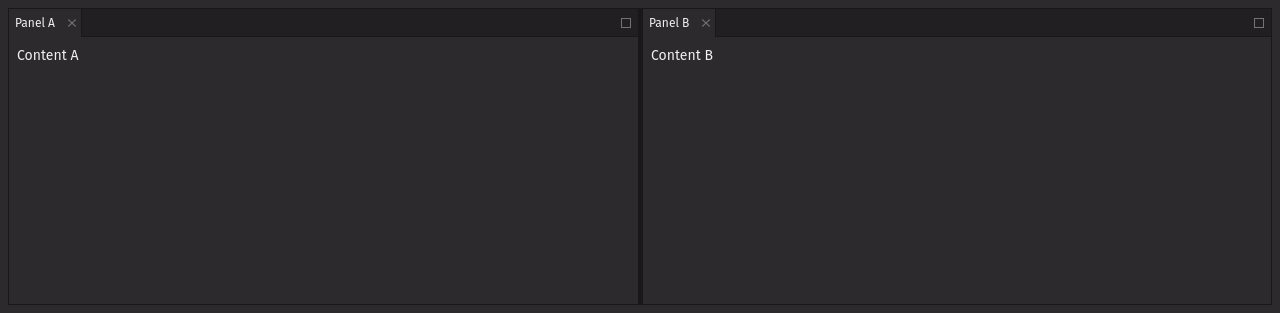
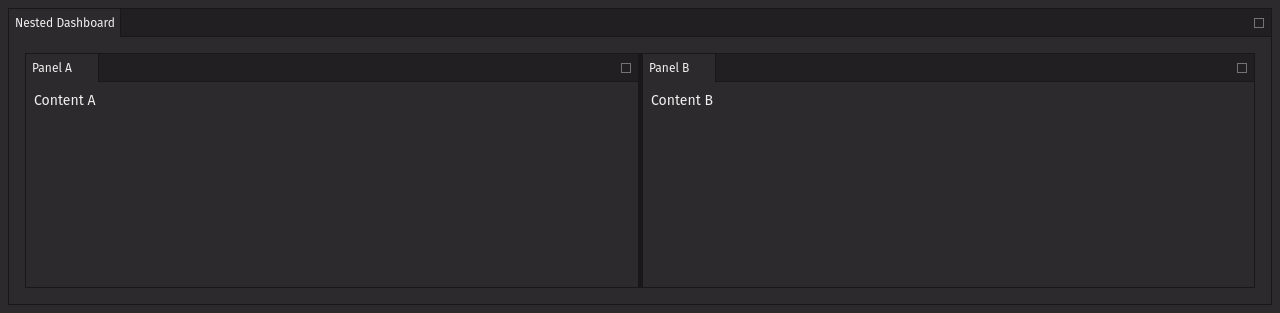
fix: update e2e selectors from .dh-react-panel to .dh-panel.widget-loader

diff --git a/tests/utils.ts b/tests/utils.ts
@@ -2,8 +2,9 @@ import test, { Locator, Page, expect } from '@playwright/test';
 import os from 'node:os';
 
 export const SELECTORS = {
-  REACT_PANEL: '.dh-react-panel',
-  REACT_PANEL_VISIBLE: '.dh-react-panel:visible',
+  REACT_PANEL: '.dh-panel.widget-loader-deephaven\\.ui\\.Element',
+  REACT_PANEL_VISIBLE:
+    '.dh-panel.widget-loader-deephaven\\.ui\\.Element:visible',
   REACT_PANEL_OVERLAY: '.dh-react-panel-overlay',
 };
 